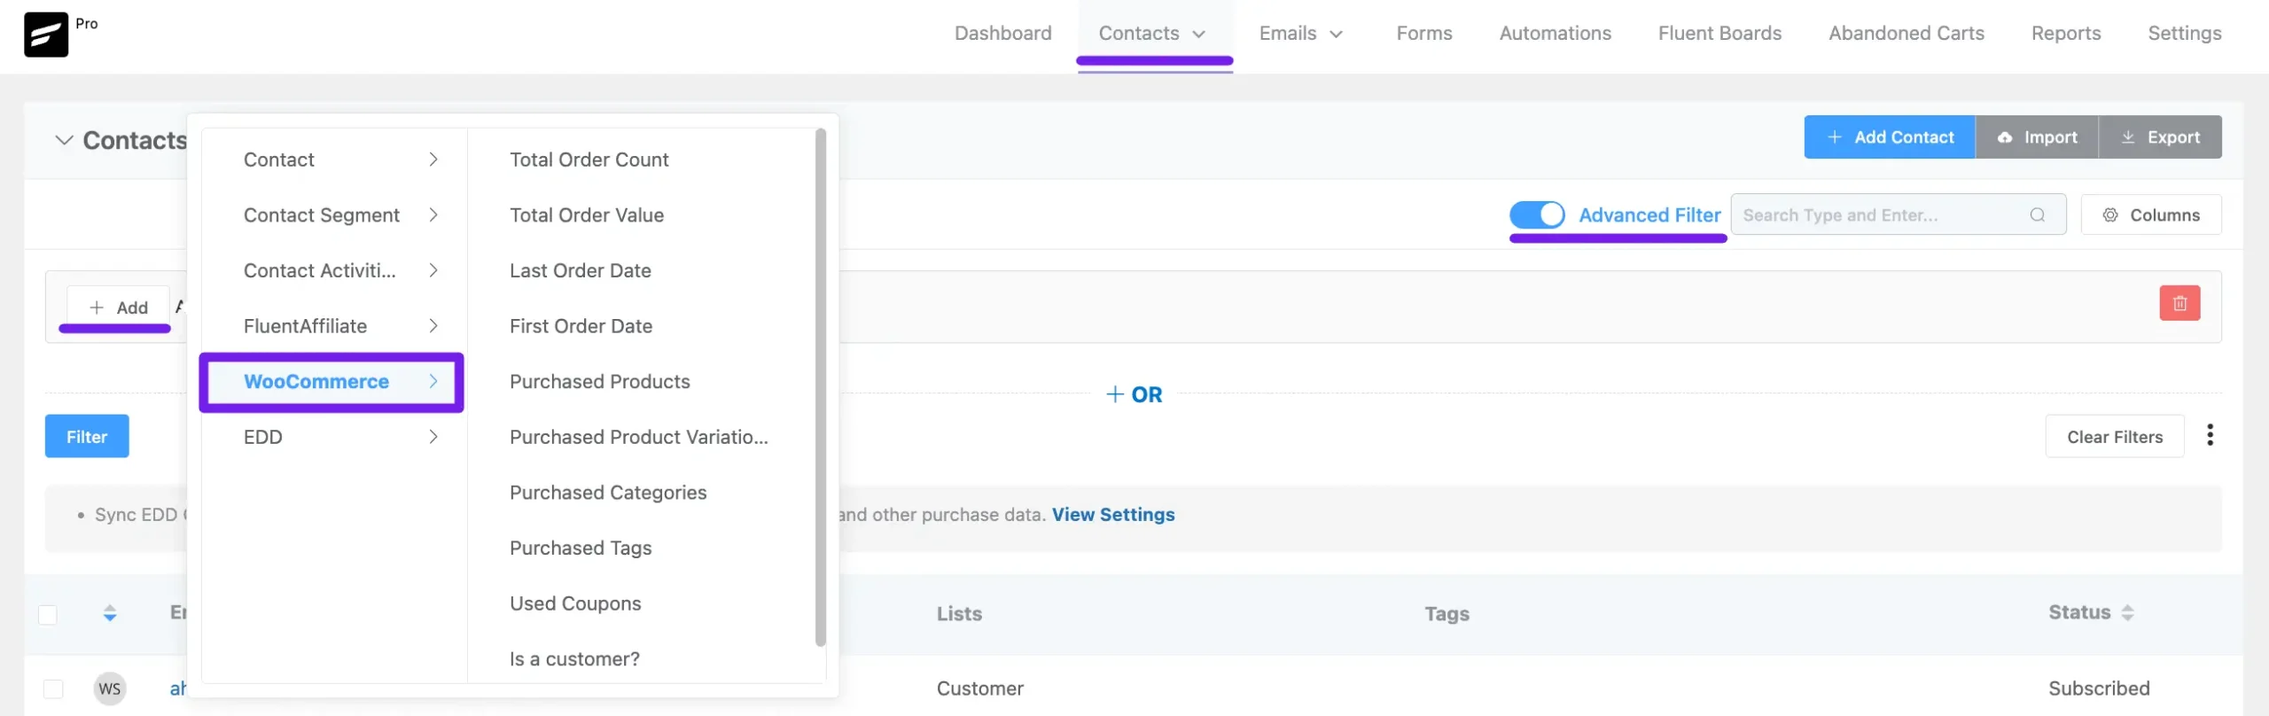
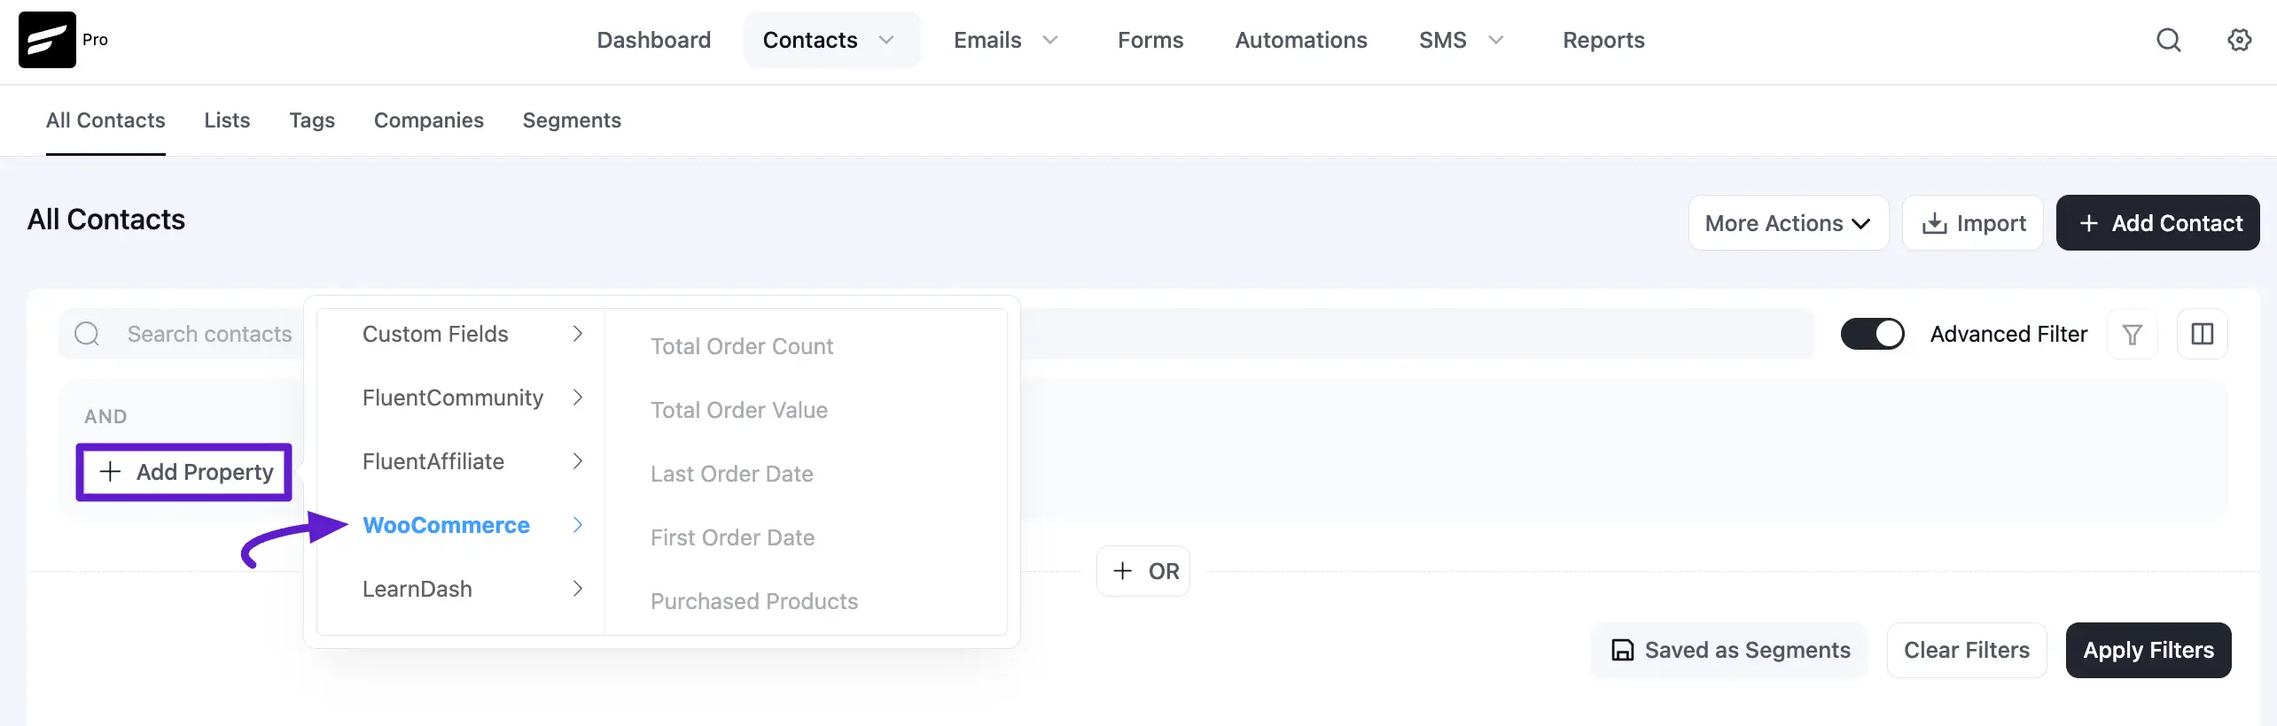
Advanced Filter doc rewrite

diff --git a/docs/grow-your-audience/advanced-filter.md b/docs/grow-your-audience/advanced-filter.md
@@ -6,19 +6,27 @@ order: 0
 ---
 
 # Advanced Filter
-As we have seen and learned about the [**Contacts Dashboard**](/docs/contacts-dashboard) and also the [**General & Dynamic Segmentation**](/docs/segment-your-audience) of the FluentCRM contacts, we have noticed that there is an Advanced Filtering option available in the FluentCRM. This option offers powerful filtering by various contact data that are either static or dynamically changed upon Contact and FluentCRM activities. In this tutorial, we will evaluate and demonstrate Advanced Filtering to learn and assimilate this feature. The **No. 7** from the introduction to **[Contacts Dashboard](/docs/contacts-dashboard)** we have seen the Advanced Filter option. **Toggling On** this feature will activate the **Advanced Filtering** and we will see more options similar to the screenshot below.
 
-![contacts fluentcrm 7](/grow-your-audience/advanced-filter/Contacts-FluentCRM-7.png)
+In FluentCRM, the **Advanced Filter** option helps you find and segment contacts using more specific conditions. This feature allows you to filter contacts based on different types of data, including both static information (such as contact details) and dynamic data that changes through contact activity or FluentCRM actions.
 
-The default options will let you **Add Data Fields** as **AND** & **OR** conditions as you wish to set, **Filter** them if you are confirmed, **Delete Data Fileds** by Delete Button(Recycle bin icon), or **Clear Filters** as well. Now Click on the **\+ Add** button to get started. This will provide a few groups of data and we will be exploring them one by one below.
+You can find the **Advanced Filter** option in the [**Contacts Dashboard**](/docs/contacts-dashboard). When you turn on the **Advanced Filter** toggle, additional filtering options will appear, similar to the example shown in the screenshot.
+
+![contacts fluentcrm 7](/grow-your-audience/advanced-filter/Contacts-FluentCRM-7.webp)
+
+Using these options, you can:
+
+  * Add data fields with **AND or OR** conditions
+  * **Apply filters** once you have selected your conditions
+  * Remove a data field using the **Delete** (recycle bin) icon
+  * **Clear all** applied filters if needed
+
+To begin creating a filter, click the **+ Add Property** button. This will display several groups of data fields that you can use to build your filtering conditions. We will explore these groups one by one in the following sections.
 
 ## General Properties
 
 There are 3 types of general properties. 2 of them are contact properties and 1 other property is based on the activities inside the FluentCRM.
 
 ### Contact
-
-![contacts fluentcrm 1 1](/grow-your-audience/advanced-filter/Contacts-FluentCRM-1-1.png)
 
 The available data properties and their short descriptions are:
 
@@ -39,9 +47,9 @@ The available data properties and their short descriptions are:
 15.  **Last Activity:** The Last Activity field in FluentCRM provides a consolidated view of WordPress user logins and interactions with email campaigns, such as email click activities.
 16.  **Created At:** The date and time when the user was created in the FluentCRM.
 
-### Contact Segment
+![contacts fluentcrm 1 1](/grow-your-audience/advanced-filter/Contacts-FluentCRM-1-1.webp)
 
-![contacts fluentcrm 2 1](/grow-your-audience/advanced-filter/Contacts-FluentCRM-2-1.png)
+### Contact Segment
 
 The available data properties and their short descriptions are:
 
@@ -50,29 +58,70 @@ The available data properties and their short descriptions are:
 3.  **Tags:** Tags that are available in the FluentCRM.
 4.  **Lists:** Lists that are available in the FluentCRM.
 
-### Contact Activities
+![contacts segment](/grow-your-audience/advanced-filter/Contacts-segment.webp)
 
-![contacts fluentcrm 3 1](/grow-your-audience/advanced-filter/Contacts-FluentCRM-3-1.png)
+### Contact Activities
 
 The available data properties and their short descriptions are:
 
 1.  **Last Email Sent:** The last date of the email sent to contacts.
 2.  **Last Email Open:** The last date when the contacts opened any email sent to them.
 3.  **Last Email Clicked:** The last date when the contacts clicked any links from emails sent to them.
+4.  **Did not clicks:** This filter will show the contacts who didn’t click the link of your email.
+5.  **Opened:** It will show the contacts who opened your email.
+6.  **Did not open yet:** It will show the contacts who still don't open your email.
+7.  **In (Email Sent):** Show the result of contacts to whom you sent the emails.
+8.  **Not in (Regardless of status):** Shows the result of contact or contacts you didn’t send emails to.
+
+![contacts fluentcrm 2 1](/grow-your-audience/advanced-filter/Contacts-activities.webp)
 
 ## Custom Field Properties
 
-![contacts fluentcrm 4 1](/grow-your-audience/advanced-filter/Contacts-FluentCRM-4-1.png)
-
 This is a user-defined option that is configured in [**Custom Contact Fields Settings**](/docs/global-custom-contact-fields). All the available custom contact fields will be listed in this option to let you apply to filter based on the custom contact field properties.
+
+![contacts fluentcrm 4 1](/grow-your-audience/advanced-filter/Contacts-FluentCRM-4-1.webp)
 
 ## Integrated Properties
 
 FluentCRM integrates with popular WordPress plugins like Woocommerce, LearnDash, LifterLMS, Easy Digital Downloads, etc. Plugin Specific Data Properties are discussed below:
 
-### Woocommerce
+### FluentCommunity
 
-![contacts fluentcrm](/grow-your-audience/advanced-filter/Contacts-FluentCRM-scaled.webp)
+Filter your contacts based on their participation and standing within your community platform:
+
+1. **Space Membership:** Filter contacts based on the specific Spaces they have joined within your community.
+2. **Course Enrollment:** Filter and segment contacts based on the specific courses they are currently enrolled in or have access to.
+
+![contacts fluentcrm 4 1](/grow-your-audience/advanced-filter/fluent-community.webp)
+
+### FluentAffiliate
+
+Manage and communicate with your partners effectively by filtering through affiliate data:
+
+1. **Affiliate Status:** Filter contacts based on their current status as an affiliate (e.g., Active, Pending, or Cancelled).
+2. **Affiliate Group:** Segment your contacts by the specific affiliate groups they have been assigned to.
+3. **Total Commission:** Filter affiliates based on the total amount of commission they have earned across all referrals.
+4. **Total Referral Count:** Identify contacts based on the total number of successful referrals they have generated.
+5. **Last Referral Date:** Filter affiliates by the date of their most recent successful referral.
+
+![Fluent Affiliate](/grow-your-audience/advanced-filter/fluent-affiliate.webp)
+
+### FluentCart
+
+If you are using FluentCart for your storefront, you can filter contacts based on their shopping journey:
+
+1. **Total Order Count:** Filter contacts based on the total number of orders they have placed through FluentCart.
+2. **Total Order Value:** Segment customers based on the total monetary value of all their completed orders.
+3. **Last Order Date:** Identify contacts based on the date they most recently completed a purchase.
+4. **First Order Date:** Filter contacts based on the date of their very first transaction.
+5. **Purchased Products:** Filter for contacts who have bought specific items or products from your store.
+6. **Purchased Categories:** Segment your audience based on the product categories they have purchased from.
+7. **Used Coupons:** Identify customers who have used specific discount codes or coupons during their checkout.
+8. **Purchased Product Variations:** Filter contacts based on specific attributes of their purchased products, such as size, color, or plan.
+
+![FluentCart](/grow-your-audience/advanced-filter/fluentcart.webp)
+
+### Woocommerce
 
 The available data properties and their short descriptions are:
 
@@ -86,9 +135,9 @@ The available data properties and their short descriptions are:
 8.  **Used Coupons:** Any used coupons in the purchased order against the customer.
 9.  **Purchased Product Variations**: Filter contacts based on their purchased WooCommerce product variations.
 
-### LearnDash
+![contacts fluentcrm](/grow-your-audience/advanced-filter/Contacts-FluentCRM-scaled.webp)
 
-![contacts fluentcrm 8](/grow-your-audience/advanced-filter/Contacts-FluentCRM-8.png)
+### LearnDash
 
 The available data properties and their short descriptions are:
 
@@ -99,172 +148,81 @@ The available data properties and their short descriptions are:
 5.  **Enrollment Categories:** The Categories that are available on the Enrolled List for any contact.
 6.  **Enrollment Tags:** The Tags that are available on the Enrolled List for any contact.
 
+![contacts fluentcrm 8](/grow-your-audience/advanced-filter/Contacts-FluentCRM-8.webp)
+
 ## Filter Conditions
 
 All of the above **Data Properties** can be used to filter out contacts depending on the available data. There are various conditions that can be applied to those available data such as **Equal**, **Does not equal**, **Includes**, **Does not Include**, **Before**, **After**, etc. and they are discussed below:
 
 ### Textual Conditions
 
-![contacts fluentcrm 9](/grow-your-audience/advanced-filter/Contacts-FluentCRM-9.png)
-
 The available conditional properties that can be applied with the filter are:
 
-**Equal:** Give a value, for an item to be displayed in the view, its property value must include the same text that was supplied. 
+ * **Equal:** Give a value, for an item to be displayed in the view, its property value must include the same text that was supplied. 
+ * **For example,** if you input “London” then **FluentCRM** will filter the contact or contacts that have or contain “London” against that **Text-based** Contact Field.
+ * **Does not equal:** Give a value, for an item to be displayed in the view, its property value cannot include the precise text that was supplied. There will also be records that have no value for the property.
+ * **For example,** if you input “London” **then FluentCRM** will filter the contact or contacts that don’t contain “London” against that **Text-based** Contact Field.
+ * **Includes:** You'll see results that correspond to your input and comparable outcomes.
+ * **E.g.:** When you enter "Regular," all the results that match the word or a particular letter in the term will be shown.
+ * **Does not include:** Doesn't include means that the word or letter you type will not be shown.
+ * **E.g.:** When you enter "Regular," neither the matching results nor those that include a letter from the word "Regular" will be displayed.
+ * **Empty:** Empty is for an option that shows the empty field results. **For example,** Your contact text information contains an empty area that will display the outcome of the selected contact or contacts.  
+ * **Not Empty:** Not empty will show the result of that field is not empty. **E.g.:** not empty will display the information from the fields that are filled with data.
 
-**For example,** if you input “London” then **FluentCRM** will filter the contact or contacts that have or contain “London” against that **Text-based** Contact Field.
+![contacts fluentcrm 9](/grow-your-audience/advanced-filter/Contacts-FluentCRM-9.webp)
 
-**Does not equal:** Give a value, for an item to be displayed in the view, its property value cannot include the precise text that was supplied. There will also be records that have no value for the property.
-
-**For example,** if you input “London” **then FluentCRM** will filter the contact or contacts that don’t contain “London” against that **Text-based** Contact Field.
-
-**Includes:** You'll see results that correspond to your input and comparable outcomes.
-
-**E.g.:** When you enter "Regular," all the results that match the word or a particular letter in the term will be shown.
-
-**Does not include:** Doesn't include means that the word or letter you type will not be shown.
-
-**E.g.:** When you enter "Regular," neither the matching results nor those that include a letter from the word "Regular" will be displayed.
-
-**Empty:** Empty is for an option that shows the empty field results. **For example,** Your contact text information contains an empty area that will display the outcome of the selected contact or contacts.  
-**Not Empty:** Not empty will show the result of that field is not empty. **E.g.:** not empty will display the information from the fields that are filled with data.
-
-### Date-Based Conditions
-
-![contacts fluentcrm 1 2](/grow-your-audience/advanced-filter/Contacts-FluentCRM-1-2.png)
-
-The available conditional properties that can be applied with the filter are:
-
-**Before:** It will filter to be displayed on the previous days of your given date. **E.g.:** When you enter the date 20-Feb-2023, FluentCRM will provide the results of counting the days backward.
-
-**After:** The next days of the specified date will be displayed after filtering. 
-
-**In the date:** In this filter, only the matches of your specified day will be shown. 
-
-**Before days:** Through this filter, you can see the results before the specified number of days.  **E.g.:** FluentCRM will display the outcome of any contacts you made earlier than seven days ago.
-
-**Within days:** This filter will show results for the specified number of days you want to see.
-
-### Choice-Based Conditions
-
-![contacts fluentcrm 2 ](/grow-your-audience/advanced-filter/Contacts-FluentCRM-2-2.png)
+### Radio Conditions
 
 The available conditional properties that can be applied with the filter are:
 
 **Includes in:** This filter will display your inputs as choices, from which you must choose to filter your results.  
 **Not includes in:** Doesn’t include will not show the result of the option you selected it will show the other results you input in the field.
 
-### Numeric Conditions
+![contacts fluentcrm 2 ](/grow-your-audience/advanced-filter/Contacts-FluentCRM-2-2.webp)
 
-![contacts fluentcrm ](/grow-your-audience/advanced-filter/Contacts-FluentCRM-3-2.png)
+### Numeric Conditions
 
 The available conditional properties that can be applied with the filter are:
 
-**Greater than:** Showing results for numbers more significant than the number you provided. **E.g.:** You have been given the number five thousand now it will show a larger number than five thousand.
+ * **Greater than:** Showing results for numbers more significant than the number you provided. **E.g.:** You have been given the number five thousand now it will show a larger number than five thousand.
+ * **Less than:** Showing results for numbers less than the number you provided. **E.g.:** You have been given the number five thousand now it will show a smaller number than five thousand.
+ * **Equal:** Equal will show you the outcome which is in the same number you have provided. **E.g.:** if you gave the number input five thousand the outcome only shows the contact or contacts that match this number.
+ * **Does not equal:** Doesn't equal will display contacts that differ from the number you entered.
+ * **Empty:** Empty is for an option that shows the empty field results.
+ * **Not empty:** Not empty will show the result that the field is not empty.
 
-**Less than:** Showing results for numbers less than the number you provided. **E.g.:** You have been given the number five thousand now it will show a smaller number than five thousand.
-
-**Equal:** Equal will show you the outcome which is in the same number you have provided. **E.g.:** if you gave the number input five thousand the outcome only shows the contact or contacts that match this number.
-
-**Does not equal:** Doesn't equal will display contacts that differ from the number you entered.
-
-**Empty:** Empty is for an option that shows the empty field results.
-
-**Not empty:** Not empty will show the result that the field is not empty.
+![contacts fluentcrm ](/grow-your-audience/advanced-filter/Contacts-FluentCRM-3-2.webp)
 
 ### **Contact Segment - Tag**
 
-![contacts fluentcrm](/grow-your-audience/advanced-filter/Contacts-FluentCRM.png)
-
 The available conditional properties that can be applied with the filter are:
 
-**Include:** It will show you the contacts that match your input tags. **For example,** if you have selected the tag “Shirt” it will show you the results of contacts that have the tag “Shirt”.
+ * **Include:** It will show you the contacts that match your input tags. **For example,** if you have selected the tag “Shirt” it will show you the results of contacts that have the tag “Shirt”.
+ * **Does not Include (In any):** Doesn’t show the result on the tag you have included on your field. **For example,** if you have selected the tag “Student” it will show you the results of contacts that don’t have the tag “Student”.
+ * **Includes of all:** will display the contacts for you according to the tag you entered. **For example,** if you input two tags like “Shirt” and “T-shirt” you will see the contacts that have these two tags.  
+ * **Includes none of (Match all):** Includes only the tags you have given and will not show in the result.
 
-**Does not Include (In any):** Doesn’t show the result on the tag you have included on your field. **For example,** if you have selected the tag “Student” it will show you the results of contacts that don’t have the tag “Student”.
-
-**Includes of all:** will display the contacts for you according to the tag you entered. **For example,** if you input two tags like “Shirt” and “T-shirt” you will see the contacts that have these two tags.  
-**Includes none of (Match all):** Includes only the tags you have given and will not show in the result.
-
-### **Contact Activities**
-
-![contacts fluentcrm ](/grow-your-audience/advanced-filter/Contacts-FluentCRM-2-1-1.png)
-
-The available conditional properties that can be applied with the filter are:
-
-**Link Clicked:** The link clicked will show the result of those who clicked the link you have been sent with your email.
-
-**Did not clicks:** This filter will show the contacts who didn’t click the link of your email. 
-
-**Opened:** It will show the contacts who opened your email.
-
-**Did not open yet:** It will show the contacts who still don't open your email.
-
-**In (Email Sent):** Show the result of contacts to whom you sent the emails.  
-**Not in (Regardless of status):** Shows the result of contact or contacts you didn’t send emails to.
-
-### **WooCommerc**e Conditions
-
-The WooCommerce advance filter will only show when the WooCommerce plugin will be activated.
-
-![contacts fluentcrm ](/grow-your-audience/advanced-filter/Contacts-FluentCRM-1.png)
-
-**Include:** It will show you the contacts that match your input tags. **For example,** if you have selected the tag “T-Shirt” it will show you the results of contacts that have the tag “T-Shirt”.
-
-**Does not Include(In any):** Doesn’t show the result on the tag you have included on your field. **For example,** if you have selected the tag “Hoodie” it will show you the results of contacts that don’t have the tag “Hoodie”.
-
-**Includes of all:** will display the contacts for you according to the tag you entered. **For example,** if you input two tags like “Cap” and “T-Shirt” you will see the contacts that have these two tags.
-
-**Includes none of (Match all):** Includes only the tags you have given and will not show in the result.
-
-**Greater than:** Showing results for numbers greater than the number you provided. **E.g.:** You have been given the number five thousand now it will show a larger number than five thousand.
-
-**Less than:** Showing results for numbers less than the number you provided. **E.g.:** You have been given the number five thousand now it will show a smaller number than five thousand.
-
-**Equal:** Equal will show you the outcome which is in the same number you have provided. **E.g.:** if you gave the number input five thousand the outcome only shows the contact or contacts that match this number.
-
-**Does not equal:** Doesn't equal will display contacts that differ from the number you entered.
-
-**Before:** It will filter to be displayed on the previous days of your given date. **E.g.:** When you enter the date 05-Feb-2023, FluentCRM will provide the results of counting the days backward.
-
-**After:** The next days of the specified date will be displayed after filtering. 
-
-**In the date:** In this filter, only the matches of your specified day will be shown. 
-
-**Before days:** Through this filter, you can see the results before the specified number of days.  **E.g.:** FluentCRM will display the outcome of any contacts you made earlier than seven days ago.
-
-**Within days:** This filter will show results for the specified number of days you want to see.
-
-**Yes:** This will show the contacts who are customers of Woocommerce.
-
-**No:** This will show the contacts who are not customers of Woocommerce.
+![contacts fluentcrm](/grow-your-audience/advanced-filter/Contacts-FluentCRM.webp)
 
 ### **Contact Activities - Automation Activities** 
 
-**Status Complete:** Contacts whose automation has been finished and who have received emails will be filtered by the status complete.
-
-**Status Active:** This will show you the result of contacts who are subscribed contacts and under the Active automation 
-
-**Status Cancelled:** It will show the result of the manually canceled automation contacts.
-
-**Status waiting:** The contacts who aren’t subscribers yet but are under automation.
-
-**In ( Regardless of status):** In this filter, you will see the contacts of automation.
-
-**Not in (Regardless of status):** With this filter, you can find out the contacts who aren’t in the automation.
+ * **Status Complete:** Contacts whose automation has been finished and who have received emails will be filtered by the status complete.
+ * **Status Active:** This will show you the result of contacts who are subscribed contacts and under the Active automation 
+ * **Status Cancelled:** It will show the result of the manually canceled automation contacts.
+ * **Status waiting:** The contacts who aren’t subscribers yet but are under automation.
+ * **In ( Regardless of status):** In this filter, you will see the contacts of automation.
+ * **Not in (Regardless of status):** With this filter, you can find out the contacts who aren’t in the automation.
 
 ### **Activities - Email Sequence**
 
-**Status Completed:** Status Complete will filter the contacts of the completed email sequence and the email that has been sent to them.
-
-**Status Active:** This will only show the active contacts under this email sequence.
-
-**Status Cancelled:** It will show you the contacts who are not in the email sequence.
-
-**In (Regardless of status):** Will show the contacts who were in an email sequence.
-
-**Not in (Regardless of status):** Will show the contact or contacts who aren’t in the email sequence.
+ * **Status Completed:** Status Complete will filter the contacts of the completed email sequence and the email that has been sent to them.
+ * **Status Active:** This will only show the active contacts under this email sequence.
+ * **Status Cancelled:** It will show you the contacts who are not in the email sequence.
+ * **In (Regardless of status):** Will show the contacts who were in an email sequence.
+ * **Not in (Regardless of status):** Will show the contact or contacts who aren’t in the email sequence.
 
 ## Example Usage
 
 The same exact filtering method can also be applied in the Email Campaign Setup as well as the below screenshot. Below is an example of using 3 different data and using **AND** with **OR** condition to demonstrate how flexible the advanced filtering of FluentCRM.
 
-![crm campaign subscribers advanced filter](/grow-your-audience/advanced-filter/crm_campaign_subscribers_advanced_filter.png)
+![crm campaign subscribers advanced filter](/grow-your-audience/advanced-filter/crm_campaign_subscribers_advanced_filter.webp)
